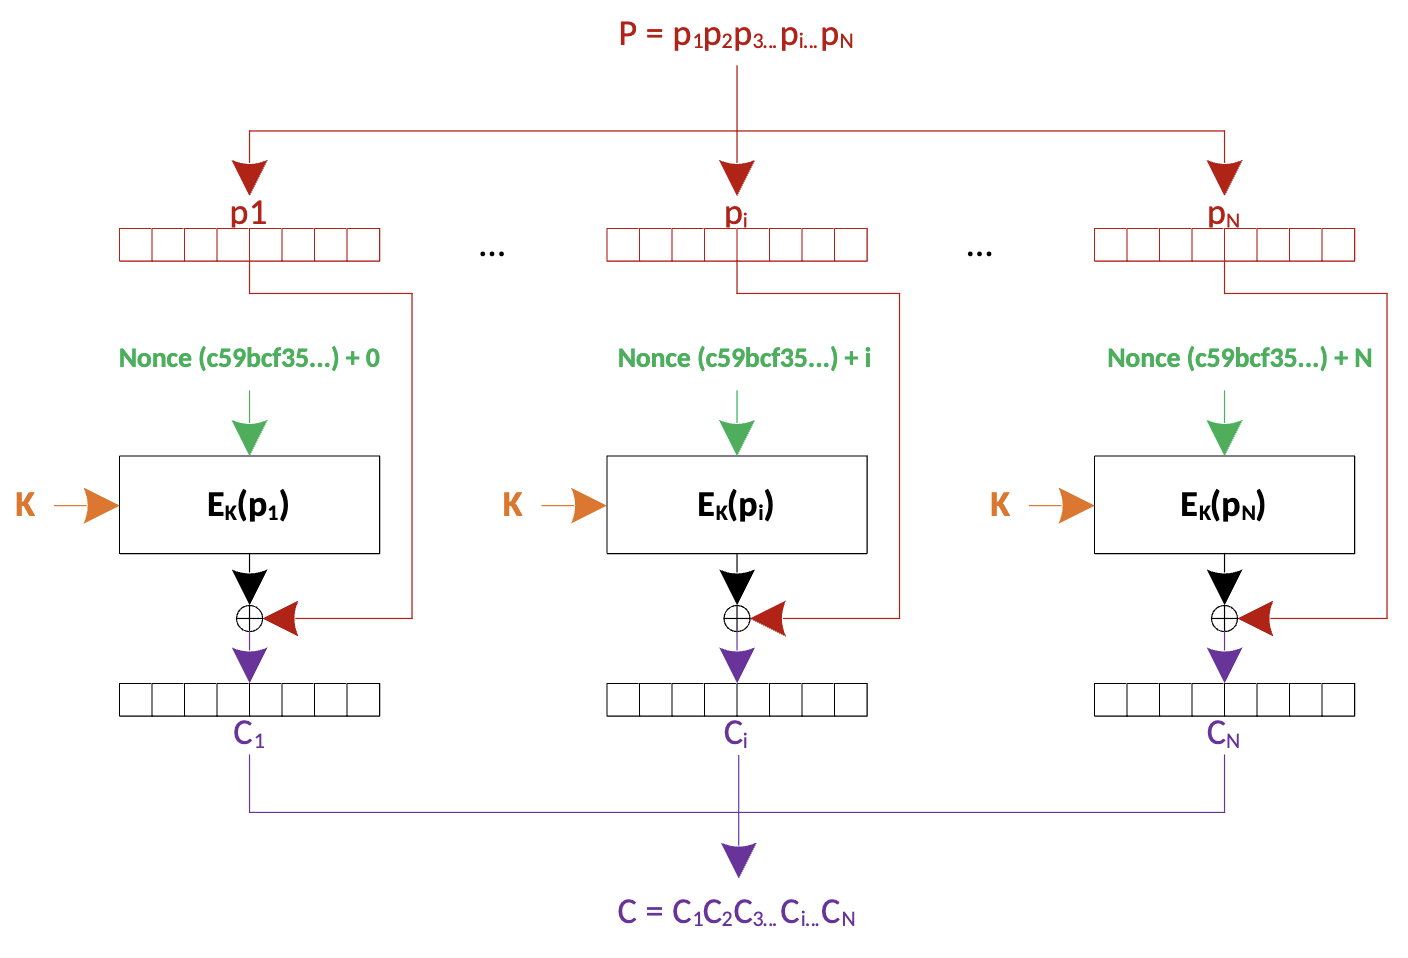
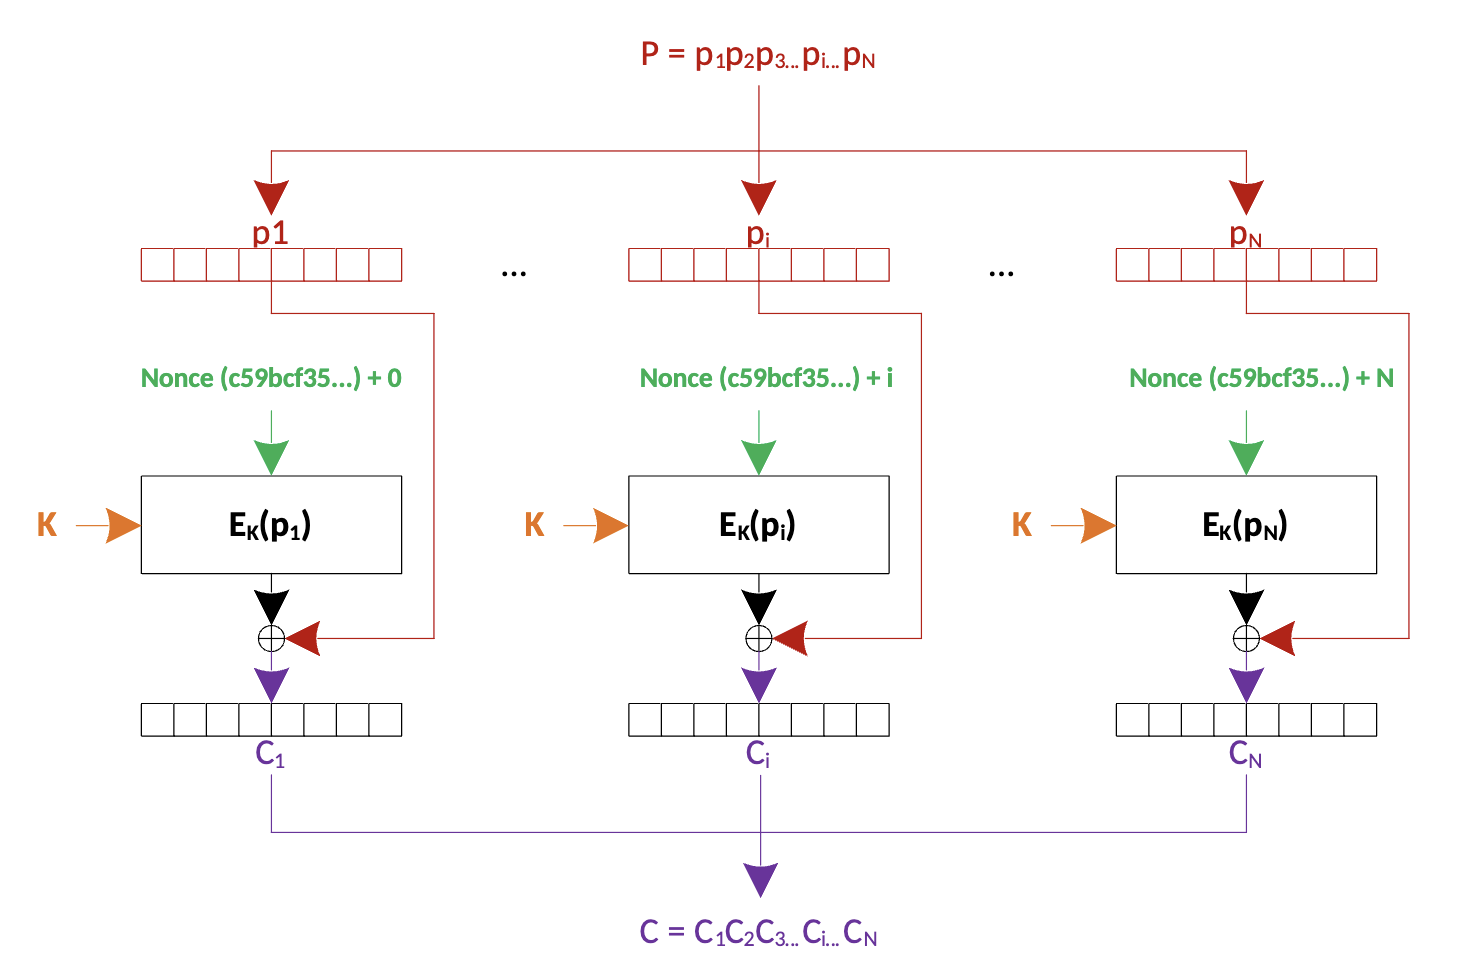
first commit

diff --git a/crypto.md b/crypto.md
@@ -405,7 +405,7 @@ There are 2 mode of **CFB**:
 <br>
 
 # OFB
-![OFB](/img/CBC.png)
+![OFB](/img/OFB.png)
 
 <br>
 
@@ -429,7 +429,7 @@ There are 2 mode of **CFB**:
 - $`O_{2} = E_{K}(O_{1})`$
 - $`O_{3} = E_{K}(O_{2})`$
 - ...
-- $`O_{i = E_{K}(O_{i-1})}`$
+- $`O_{i} = E_{K}(O_{i-1})`$
 
 <br>
 
